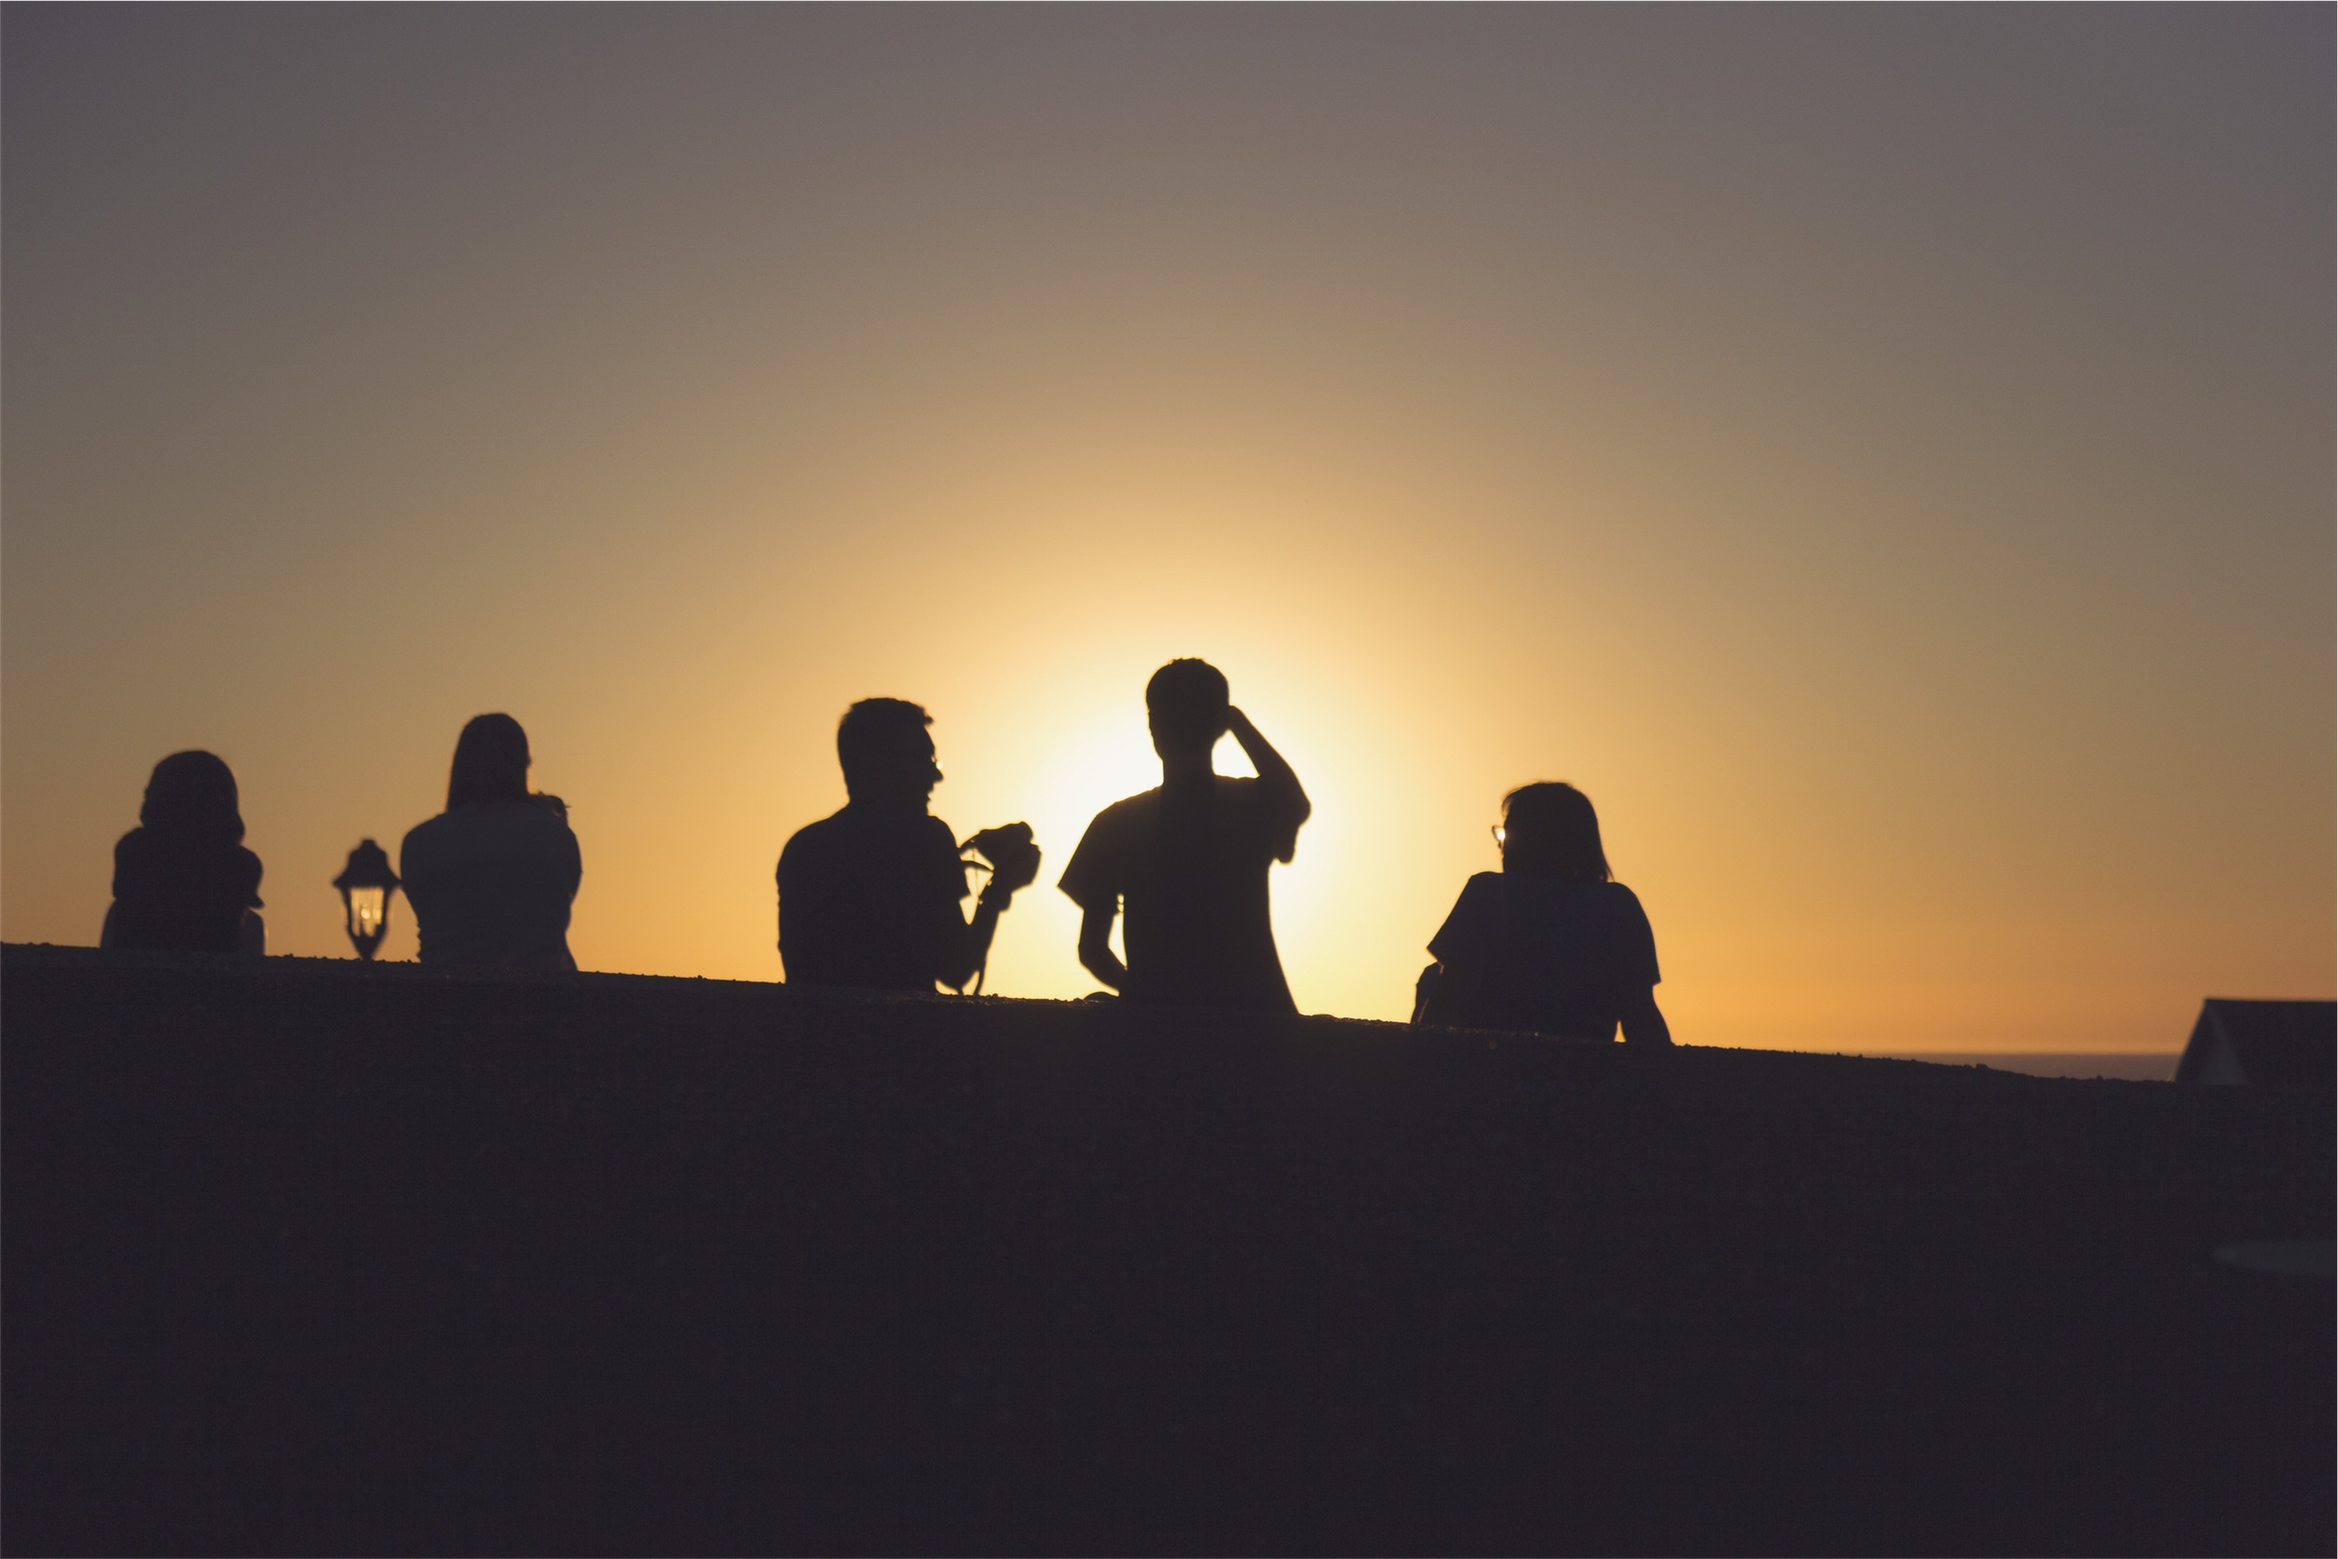
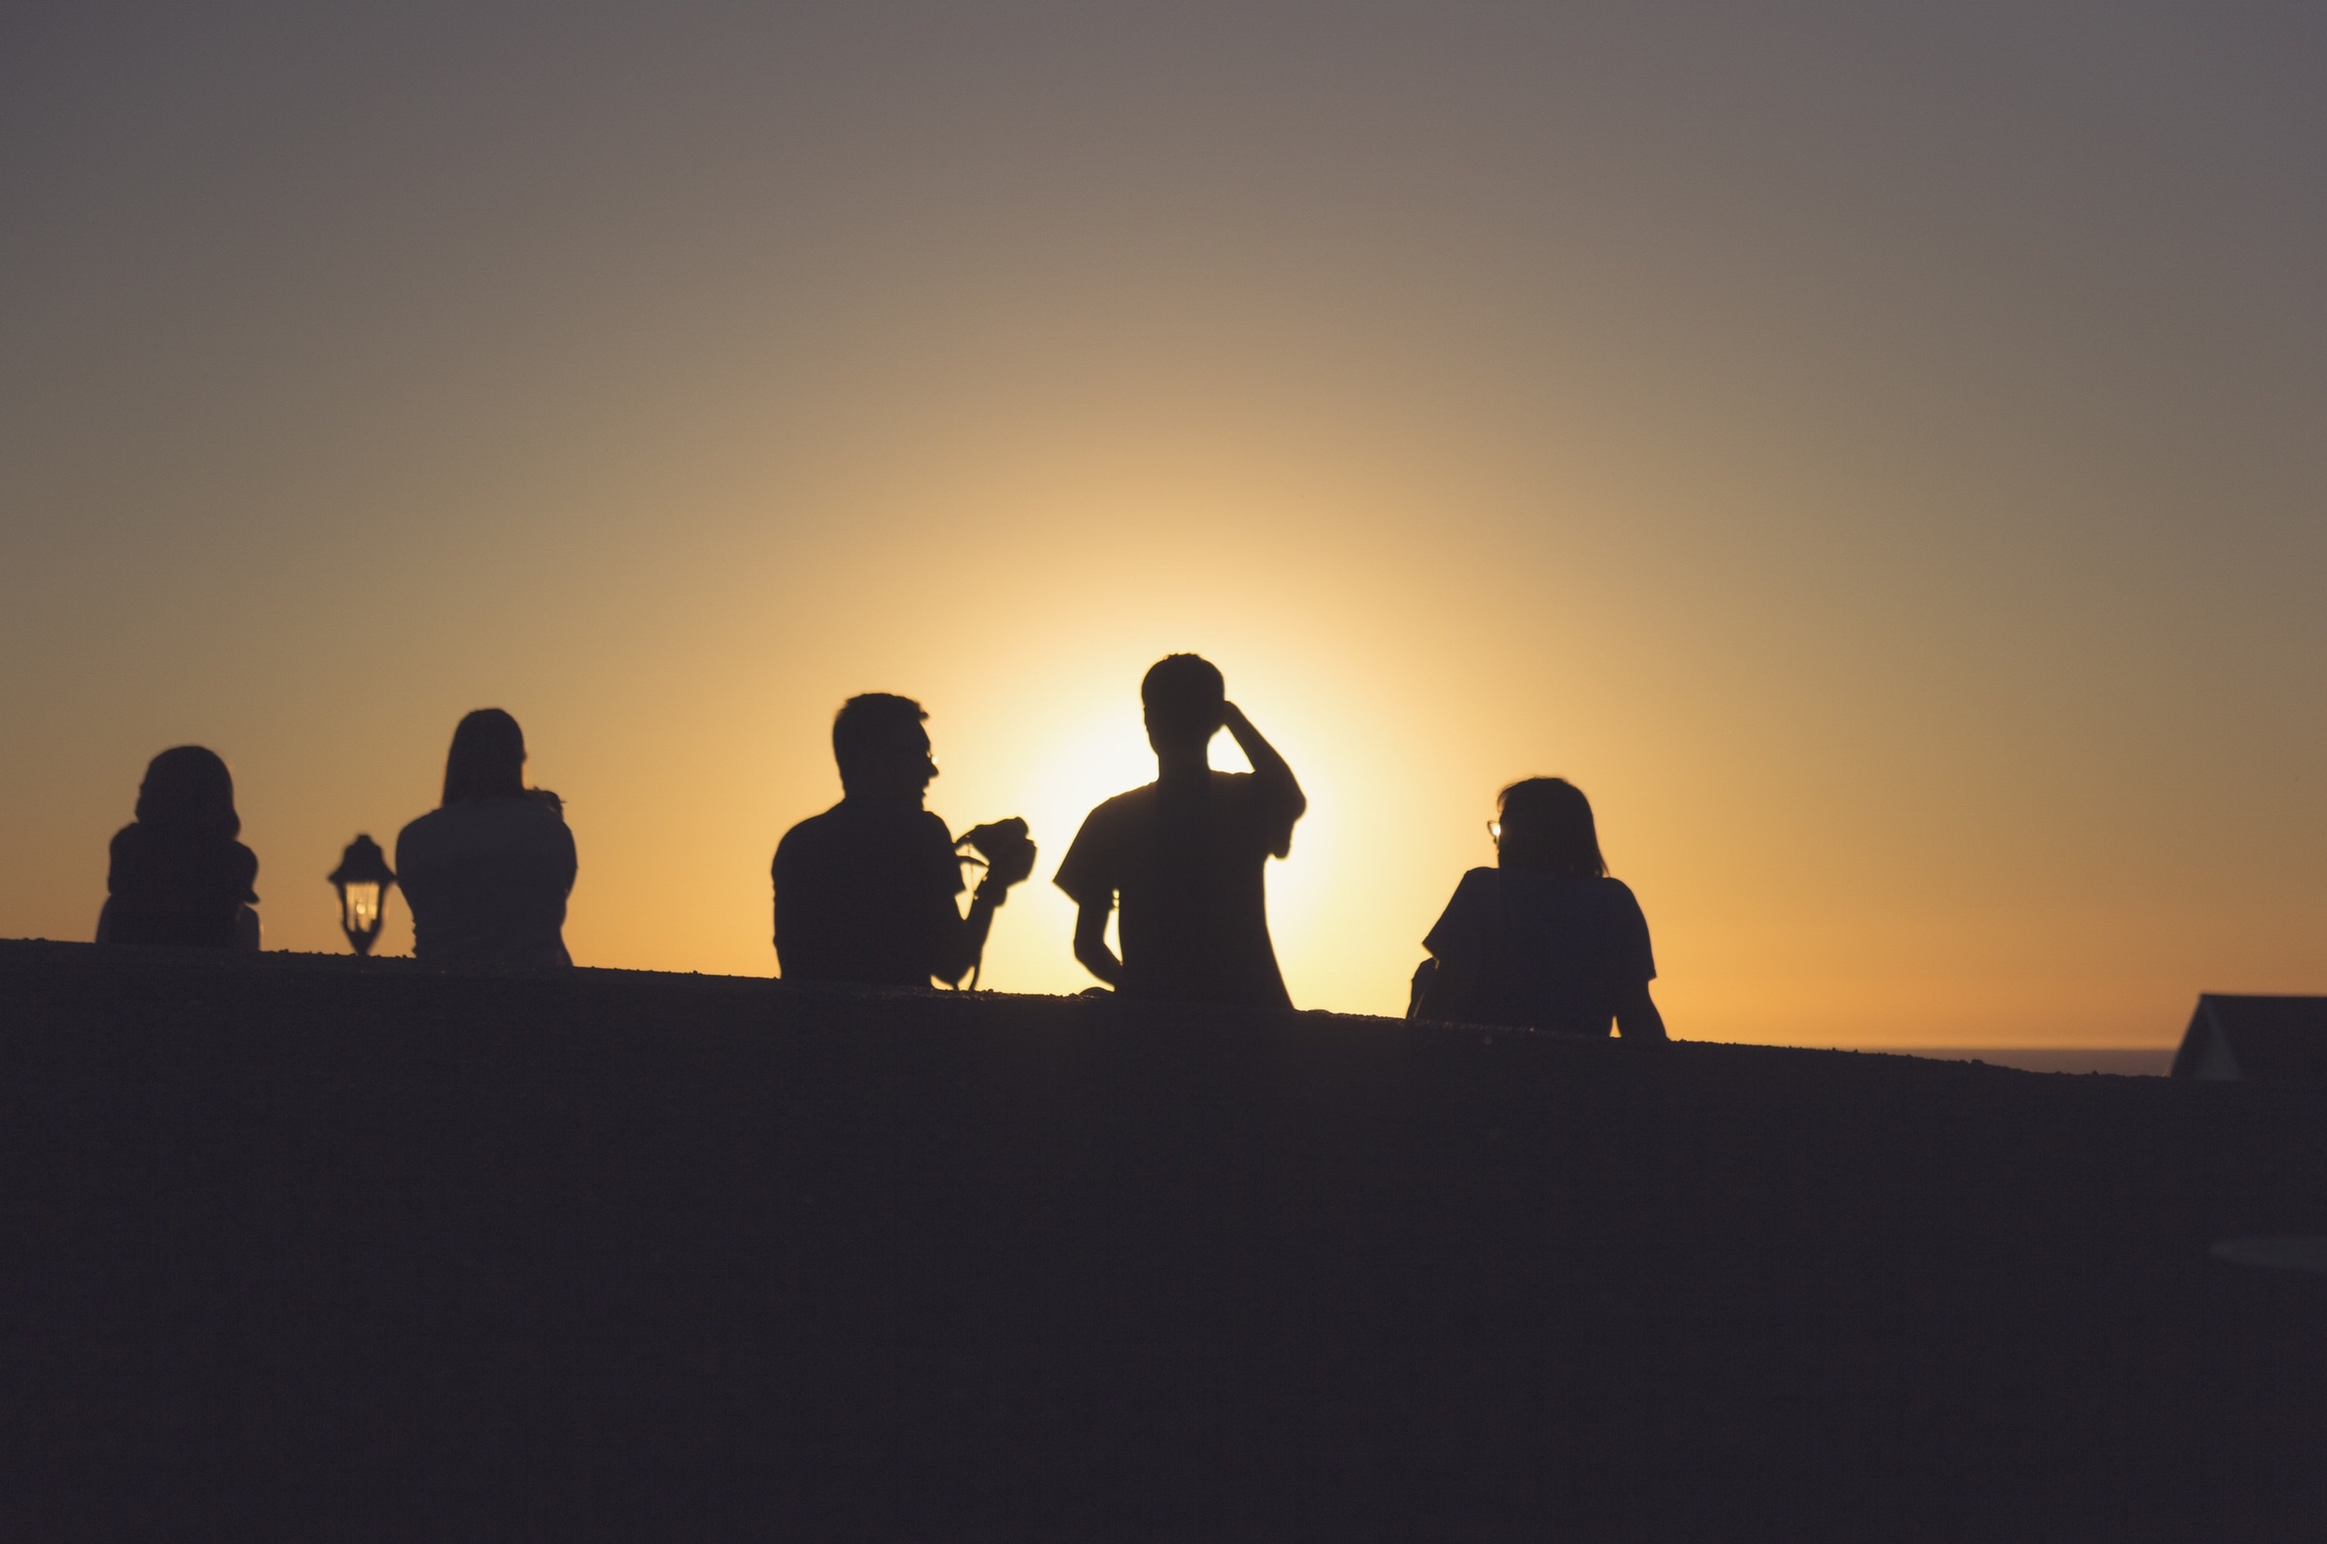
Update faqs container with an image bg

diff --git a/src/Components/Faqs/FaqsStyles.js b/src/Components/Faqs/FaqsStyles.js
@@ -5,6 +5,7 @@ const useStyles = makeStyles((theme) => ({
         width: '100%',
     },
     heading: {
+        padding: 10,
         fontWeight: '500',
         color: 'white',
         letterSpacing: '.02em',
@@ -20,9 +21,8 @@ const useStyles = makeStyles((theme) => ({
         },
     },
     Accordion: {
-        marginBottom: 10,
+        marginBottom: 1,
         color: '#eaeaea',
-        padding: '5px 20px',
         borderRadius: 5,
         background: 'linear-gradient(124deg, rgb(38 85 132) 16%, rgb(51 102 153) 56%)',
         boxShadow: '0px 2px 1px -1px rgb(0 0 0 / 20%), 0px 1px 1px 0px rgb(0 0 0 / 14%), 0px 1px 3px 0px rgb(0 0 0 / 12%)', 
@@ -30,7 +30,6 @@ const useStyles = makeStyles((theme) => ({
     AccordionDetails: {
         backgroundColor: '#fffaf2',
         boxShadow: 'inset 0px 0px 2px black',
-        marginBottom: 10,
         padding: '20px 40px !important',
         [theme.breakpoints.down('xs')]: {
             padding: '20px !important',

diff --git a/src/Views/FaqPage/FaqPageStyles.js b/src/Views/FaqPage/FaqPageStyles.js
@@ -1,4 +1,5 @@
 import { makeStyles } from '@material-ui/core/styles';
+import bgImage from './../../Assets/Images/sunset.jpeg';
 
 const useStyles = makeStyles((theme) => ({
     root: {
@@ -10,6 +11,9 @@ const useStyles = makeStyles((theme) => ({
         margin: 'auto',
         marginBottom: 25,
         maxWidth: 900,
+        background: `url('${bgImage}')`,
+        backgroundPositionY: -60,
+        backgroundPositionX: -450,
         [theme.breakpoints.down('sm')]: {
             margin: '-20px 5px -40px 5px',
         },
@@ -22,7 +26,6 @@ const useStyles = makeStyles((theme) => ({
         height: '100%',
         padding: 75,
         paddingBottom: 40,
-        backgroundColor: '#17233fc7',
         boxShadow: '0px 2px 1px -1px rgb(0 0 0 / 20%), 0px 1px 1px 0px rgb(0 0 0 / 14%), 0px 1px 3px 0px rgb(0 0 0 / 12%)',
         [theme.breakpoints.down('xs')]: {
             padding: 15,

diff --git a/src/Views/ImageGallery/ImageGallery.js b/src/Views/ImageGallery/ImageGallery.js
@@ -17,12 +17,7 @@ const ImageGallery = (props) => {
     return (
         <Box>
             <Header />
-            <Typography
-                style={{
-                    textAlign: 'center',
-                    color: 'white',
-                    marginBottom: 50,
-                }} >
+            <Typography className={classes.carouselInstructions} >
                 Click any image to view in carousel
             </Typography>
             <Box className={classes.root}>

diff --git a/src/Views/ImageGallery/ImageGalleryStyles.js b/src/Views/ImageGallery/ImageGalleryStyles.js
@@ -22,6 +22,11 @@ export const useStyles = makeStyles((theme) => ({
             padding: 0,
         },
     },
+    carouselInstructions: {
+        textAlign: 'center',
+        color: 'white',
+        marginBottom: 50,
+    },
     imgModal: {
         backgroundColor: '#000000f2',
         width: '100vw',
@@ -53,6 +58,5 @@ export const useStyles = makeStyles((theme) => ({
         },
     },
 }));
-
 
 export default useStyles;

diff --git a/src/Components/Footer/FooterStyles.js b/src/Components/Footer/FooterStyles.js
@@ -53,6 +53,9 @@ const useStyles = makeStyles((theme) => ({
     },
     hiddenCompanyLogo: {
         width: 175,
+        [theme.breakpoints.down('xs')]: {
+            display: 'none',
+        },
     },
     socialIconsContainer: {
         display: 'none',
